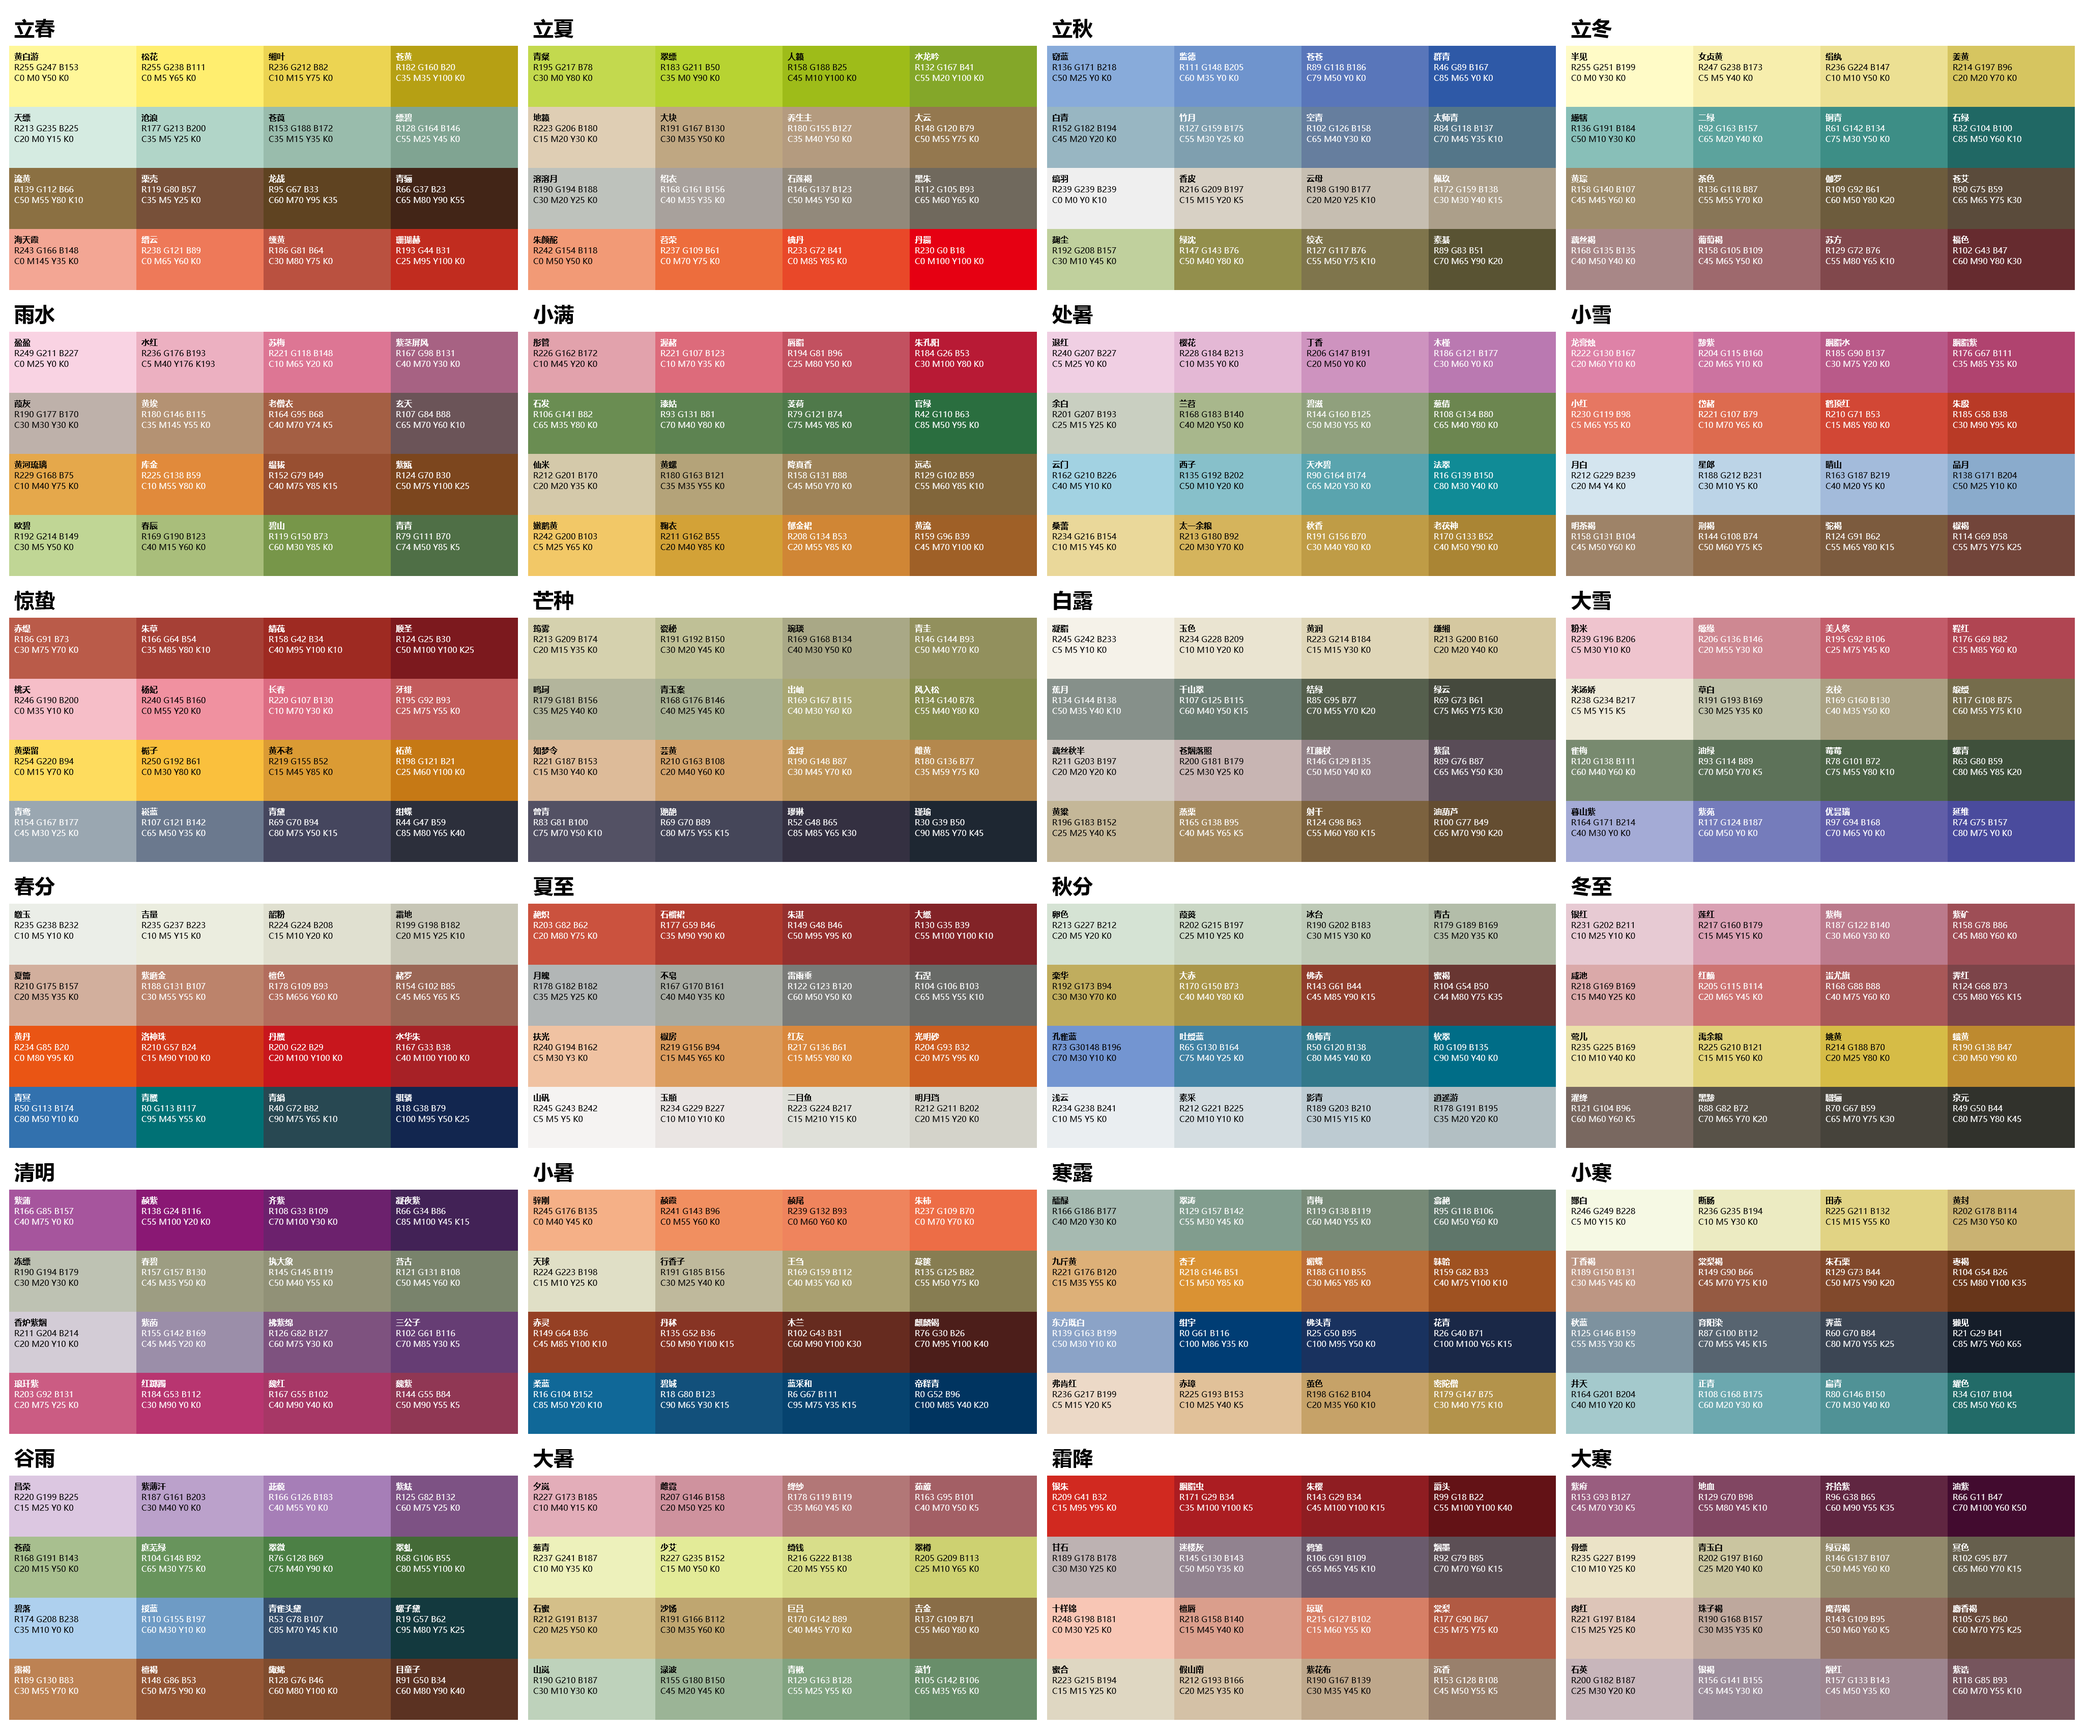
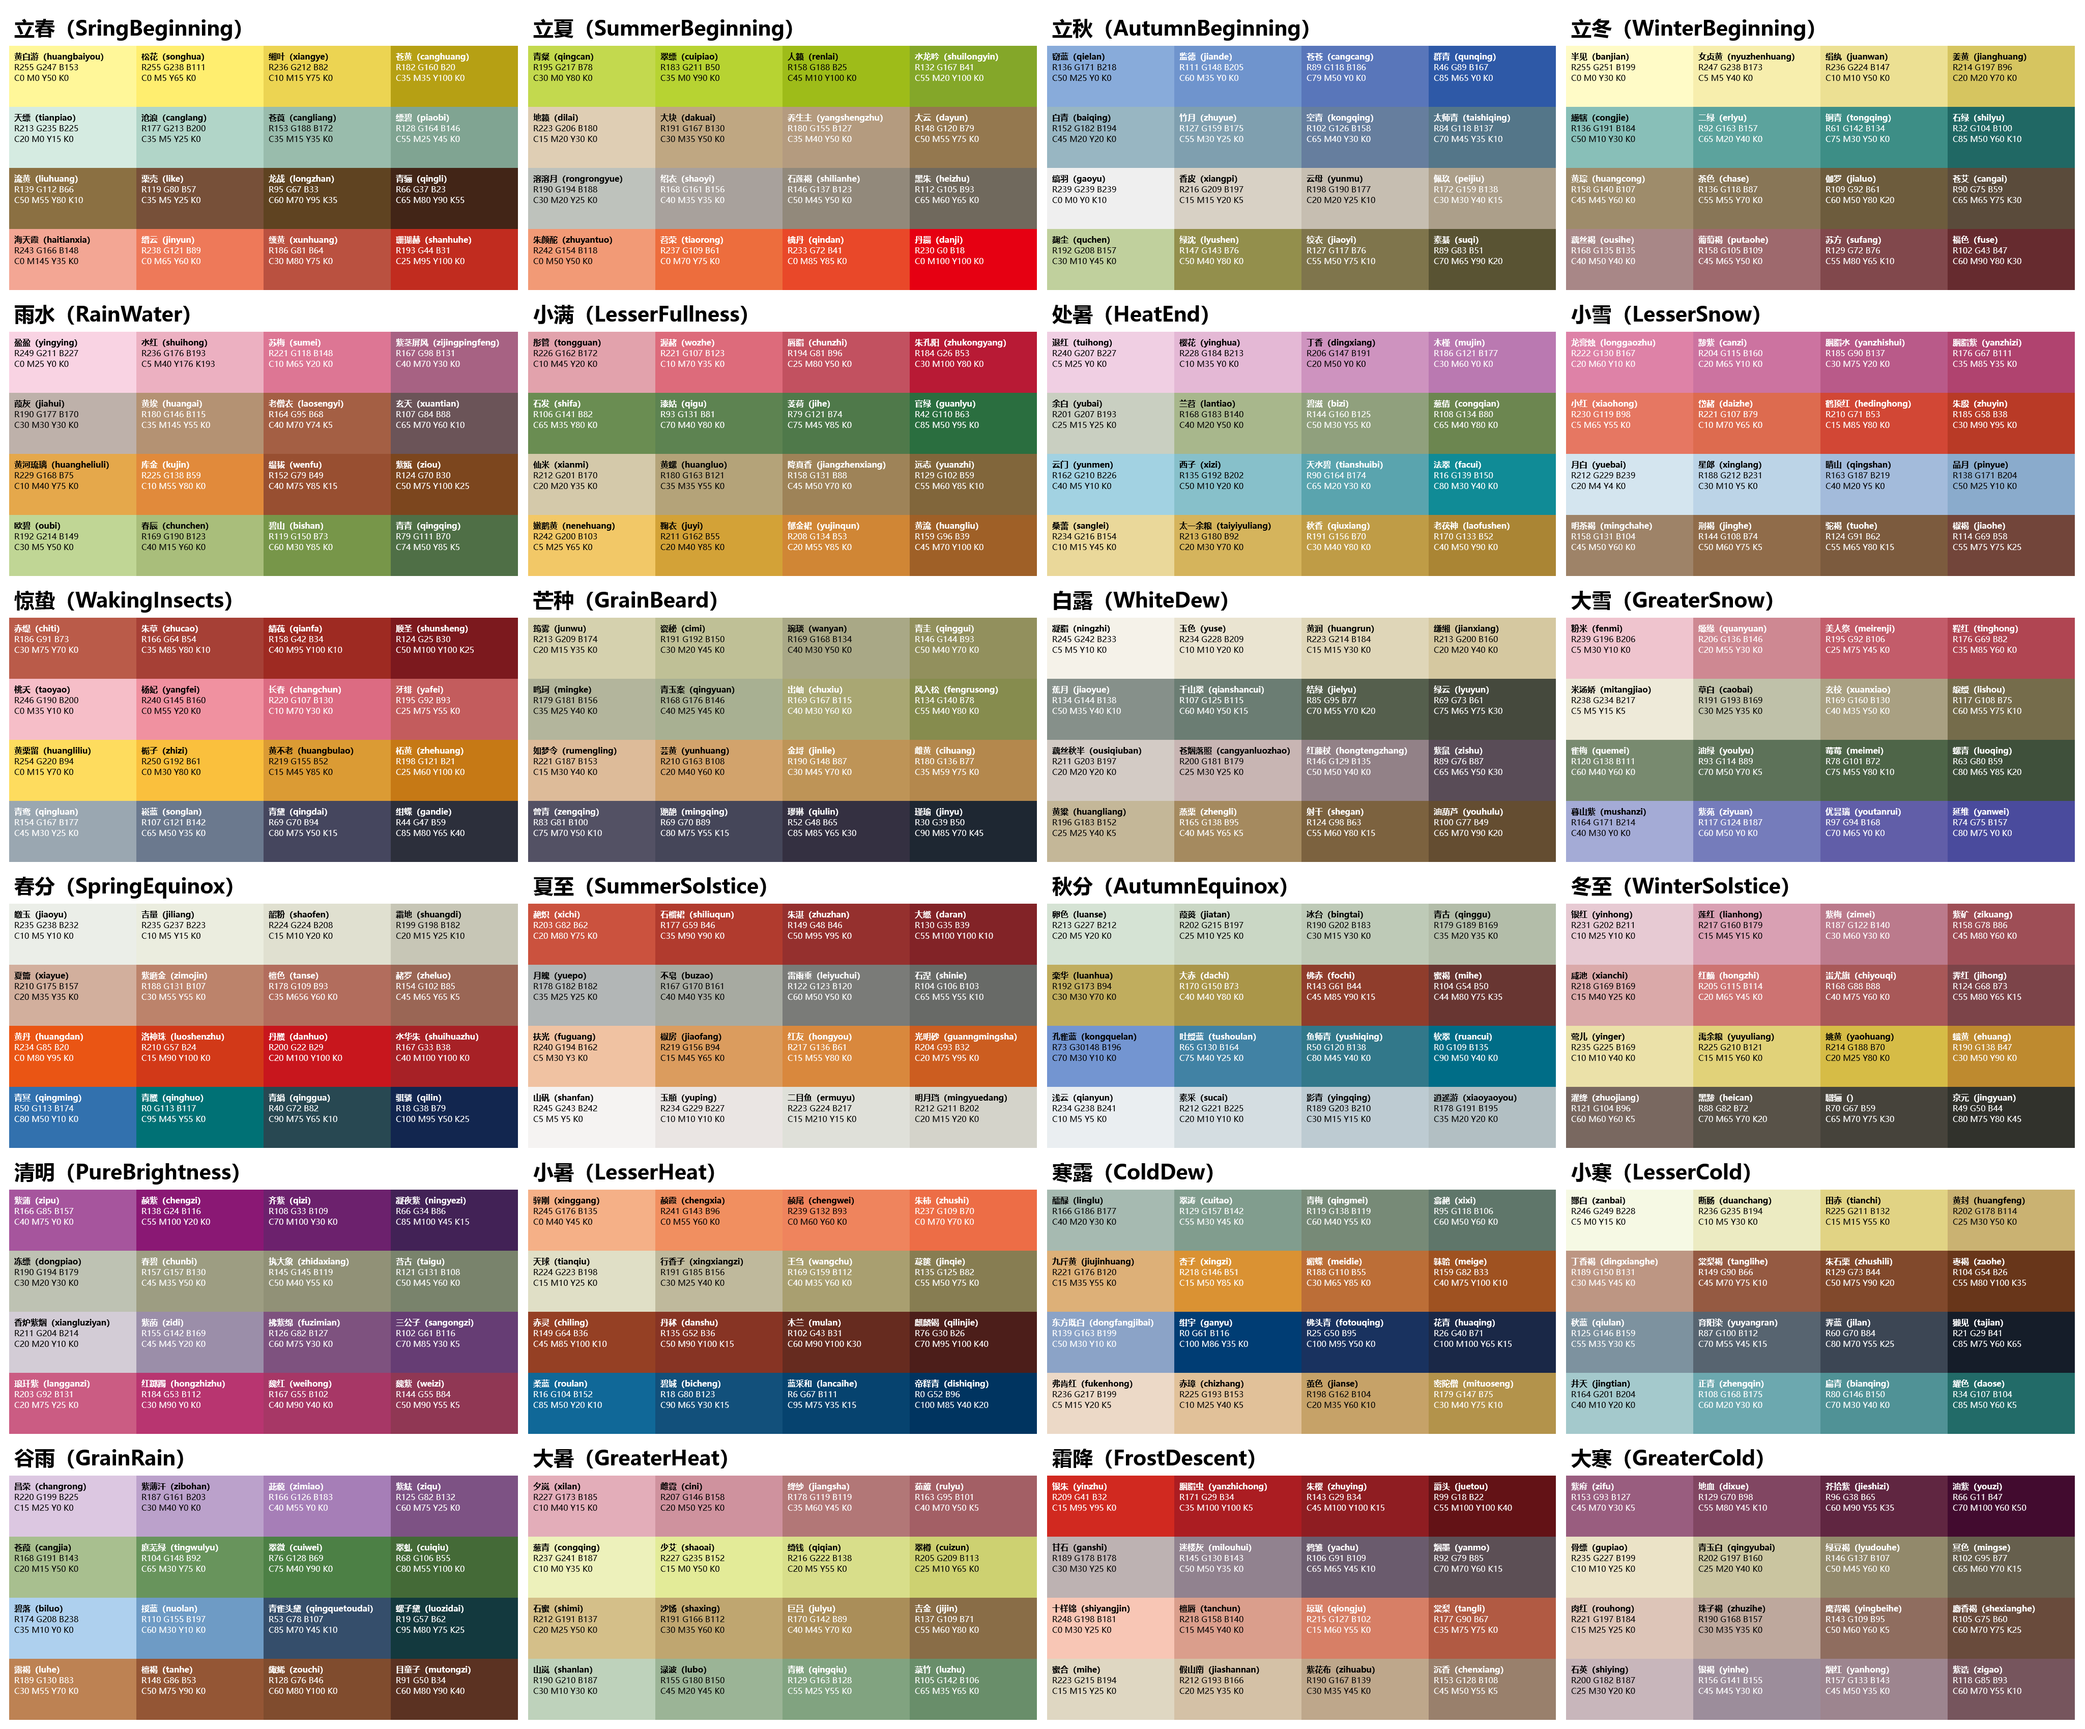
添加输出英文名

diff --git a/dist/chinese-traditional-color.js b/dist/chinese-traditional-color.js
@@ -25,7 +25,7 @@ eval("const data = __webpack_require__(/*! ./../src/index */ \"./src/index.js\")
   \**********************/
 /***/ ((module, exports, __webpack_require__) => {
 
-eval("const data = __webpack_require__(/*! ./../res/data.json */ \"./res/data.json\");\r\nconst methods = __webpack_require__(/*! ./methods */ \"./src/methods.js\");\r\n\r\nconst colorMap = {};\r\nconst solarTermMap = {};\r\nconst solarTermsList = [];\r\n\r\nfor (const solarTerm of data) {\r\n\r\n    const { cnName, items } = solarTerm;\r\n    const colorList = [];\r\n\r\n    const solarTermObj = {\r\n        getName () {\r\n            return cnName;\r\n        },\r\n        getColor (condition) {\r\n            return colorMap[condition] || colorList[condition] || null;;\r\n        },\r\n        getColorList () {\r\n            return colorList;\r\n        }\r\n    };\r\n    solarTermMap[cnName] = solarTermObj;\r\n    solarTermsList.push(solarTermObj);\r\n\r\n    for (const color of items) {\r\n\r\n        const { rgb: [ r, g, b ], cmyk: [ c, m, y, k], } = color.value;\r\n\r\n        const colorObj = {\r\n            toString () {\r\n                return `${color.cnName} #${methods.rgbToHex(r,g, b)}`;\r\n            },\r\n            getName () {\r\n                return color.cnName;\r\n            },\r\n            getRgb () {\r\n                return { r, g, b };\r\n            },\r\n            getCmyk () {\r\n                return { c, m, y, k };\r\n            },\r\n            getHexRgb () {\r\n                return `#${methods.rgbToHex(r,g, b)}`;\r\n            },\r\n            getBrightness () {\r\n                return methods.calcBrightness(r, g, b);\r\n            }\r\n        };\r\n\r\n        colorMap[color.cnName] = colorObj;\r\n        colorList.push(colorObj);\r\n    }\r\n}\r\n\r\nexports = module.exports = {\r\n    getColorByName (colorName) {\r\n        return colorMap[colorName] || null;\r\n    },\r\n    getSolarTerm (condition) {\r\n        return solarTermMap[condition] || solarTermsList [condition] || null;\r\n    },\r\n    getSolarTermList () {\r\n        return solarTermsList;\r\n    }\r\n}\n\n//# sourceURL=webpack://chinese-traditional-color/./src/index.js?");
+eval("const data = __webpack_require__(/*! ./../res/data.json */ \"./res/data.json\");\r\nconst methods = __webpack_require__(/*! ./methods */ \"./src/methods.js\");\r\n\r\nconst colorMap = {};\r\nconst solarTermMap = {};\r\nconst solarTermsList = [];\r\n\r\nfor (const solarTerm of data) {\r\n\r\n    const { cnName, name, items } = solarTerm;\r\n    const colorList = [];\r\n\r\n    const solarTermObj = {\r\n        getCnName () {\r\n            return cnName;\r\n        },\r\n        getEnName () {\r\n            return name;\r\n        },\r\n        getColor (condition) {\r\n            return colorMap[condition] || colorList[condition] || null;;\r\n        },\r\n        getColorList () {\r\n            return colorList;\r\n        }\r\n    };\r\n    solarTermMap[cnName] = solarTermObj;\r\n    solarTermsList.push(solarTermObj);\r\n\r\n    for (const color of items) {\r\n\r\n        const { rgb: [ r, g, b ], cmyk: [ c, m, y, k], } = color.value;\r\n\r\n        const colorObj = {\r\n            toString () {\r\n                return `${color.cnName} #${methods.rgbToHex(r,g, b)}`;\r\n            },\r\n            getCnName () {\r\n                return color.cnName;\r\n            },\r\n            getEnName () {\r\n                return color.name;\r\n            },\r\n            getRgb () {\r\n                return { r, g, b };\r\n            },\r\n            getCmyk () {\r\n                return { c, m, y, k };\r\n            },\r\n            getHexRgb () {\r\n                return `#${methods.rgbToHex(r,g, b)}`;\r\n            },\r\n            getBrightness () {\r\n                return methods.calcBrightness(r, g, b);\r\n            }\r\n        };\r\n\r\n        colorMap[color.cnName] = colorObj;\r\n        colorList.push(colorObj);\r\n    }\r\n}\r\n\r\nexports = module.exports = {\r\n    getColorByName (colorName) {\r\n        return colorMap[colorName] || null;\r\n    },\r\n    getSolarTerm (condition) {\r\n        return solarTermMap[condition] || solarTermsList [condition] || null;\r\n    },\r\n    getSolarTermList () {\r\n        return solarTermsList;\r\n    }\r\n}\n\n//# sourceURL=webpack://chinese-traditional-color/./src/index.js?");
 
 /***/ }),
 

diff --git a/src/index.js b/src/index.js
@@ -7,12 +7,15 @@ const solarTermsList = [];
 
 for (const solarTerm of data) {
 
-    const { cnName, items } = solarTerm;
+    const { cnName, name, items } = solarTerm;
     const colorList = [];
 
     const solarTermObj = {
-        getName () {
+        getCnName () {
             return cnName;
+        },
+        getEnName () {
+            return name;
         },
         getColor (condition) {
             return colorMap[condition] || colorList[condition] || null;;
@@ -32,8 +35,11 @@ for (const solarTerm of data) {
             toString () {
                 return `${color.cnName} #${methods.rgbToHex(r,g, b)}`;
             },
-            getName () {
+            getCnName () {
                 return color.cnName;
+            },
+            getEnName () {
+                return color.name;
             },
             getRgb () {
                 return { r, g, b };

diff --git a/dist/index.html b/dist/index.html
@@ -66,7 +66,7 @@ for (let i = 0; i < solorTermList.length; i++) {
     }
 
     const stTtlDiv = document.createElement("div");
-    stTtlDiv.innerHTML = stObj.getName();
+    stTtlDiv.innerHTML = `${stObj.getCnName()}（${stObj.getEnName()}）`;
     stTtlDiv.className = "st-title-box";
 
     stDiv.appendChild(stTtlDiv);
@@ -80,7 +80,7 @@ for (let i = 0; i < solorTermList.length; i++) {
         colorDiv.className = "color-box";
 
         const colorTTlDiv = document.createElement("div");
-        colorTTlDiv.innerHTML = colorObj.getName();
+        colorTTlDiv.innerHTML = `${colorObj.getCnName()}（${colorObj.getEnName()}）`;
         colorTTlDiv.className = "color-titlt-box";
         colorDiv.style.backgroundColor = colorObj.getHexRgb();
 

diff --git a/README.md b/README.md
@@ -269,7 +269,8 @@ const salorTerm = CTC.getSolarTermByName("立秋");
 
 | API 名称 | 作用 | 参数 | 返回值 |
 | --- | --- | --- | --- |
-| getName | 获得当前节气的名称 | 无 | 当前节气的名称 |
+| getCnName | 获得当前节气的名称 | 无 | 当前节气的名称（例：立秋） |
+| getEnName | 获得当前节气的名称（变量名） | 无 | 当前节气的名称（例：AutumnBeginning） |
 | getColor | 获得名称获得颜色对象| 参数有以下2种形式：<br/>1. 编号，从 0（当前节气的第一个颜色） 开始<br />2. 名称（例：群青） | 颜色的对象实例<br />如果找不到，则返回 null |
 | getColorList | 获得当前节气下的所有颜色的列表 | 无 | 颜色的数组<br />例：黄白游的实例、松花的实例、缃叶的实例... |
 
@@ -294,7 +295,8 @@ const color2 = salorTerm.getColorByName("群青"); // 从节气对象中获得
 
 | API 名称 | 作用 | 参数 | 返回值 |
 | --- | --- | --- | --- |
-| getName | 获得颜色的名称 | 无 | 颜色的名称（例：群青） |
+| getCnName | 获得颜色的中文名称 | 无 | 颜色的名称（例：群青） |
+| getEnName | 获得颜色的英文名称（变量名） | 无 | 颜色的名称（例：qunqing） |
 | getRgb | 获得 RGB 值 | 无 | { r: 46, g: 89, b: 167 } |
 | getCmyk | 获得 CMYK 值 | 无 | { c: 85, y: 65, m: 0, k: 0 } |
 | getHexRgb | 获得 16进制数形式的 RGB 值 | 无 | #2E59A7 |
